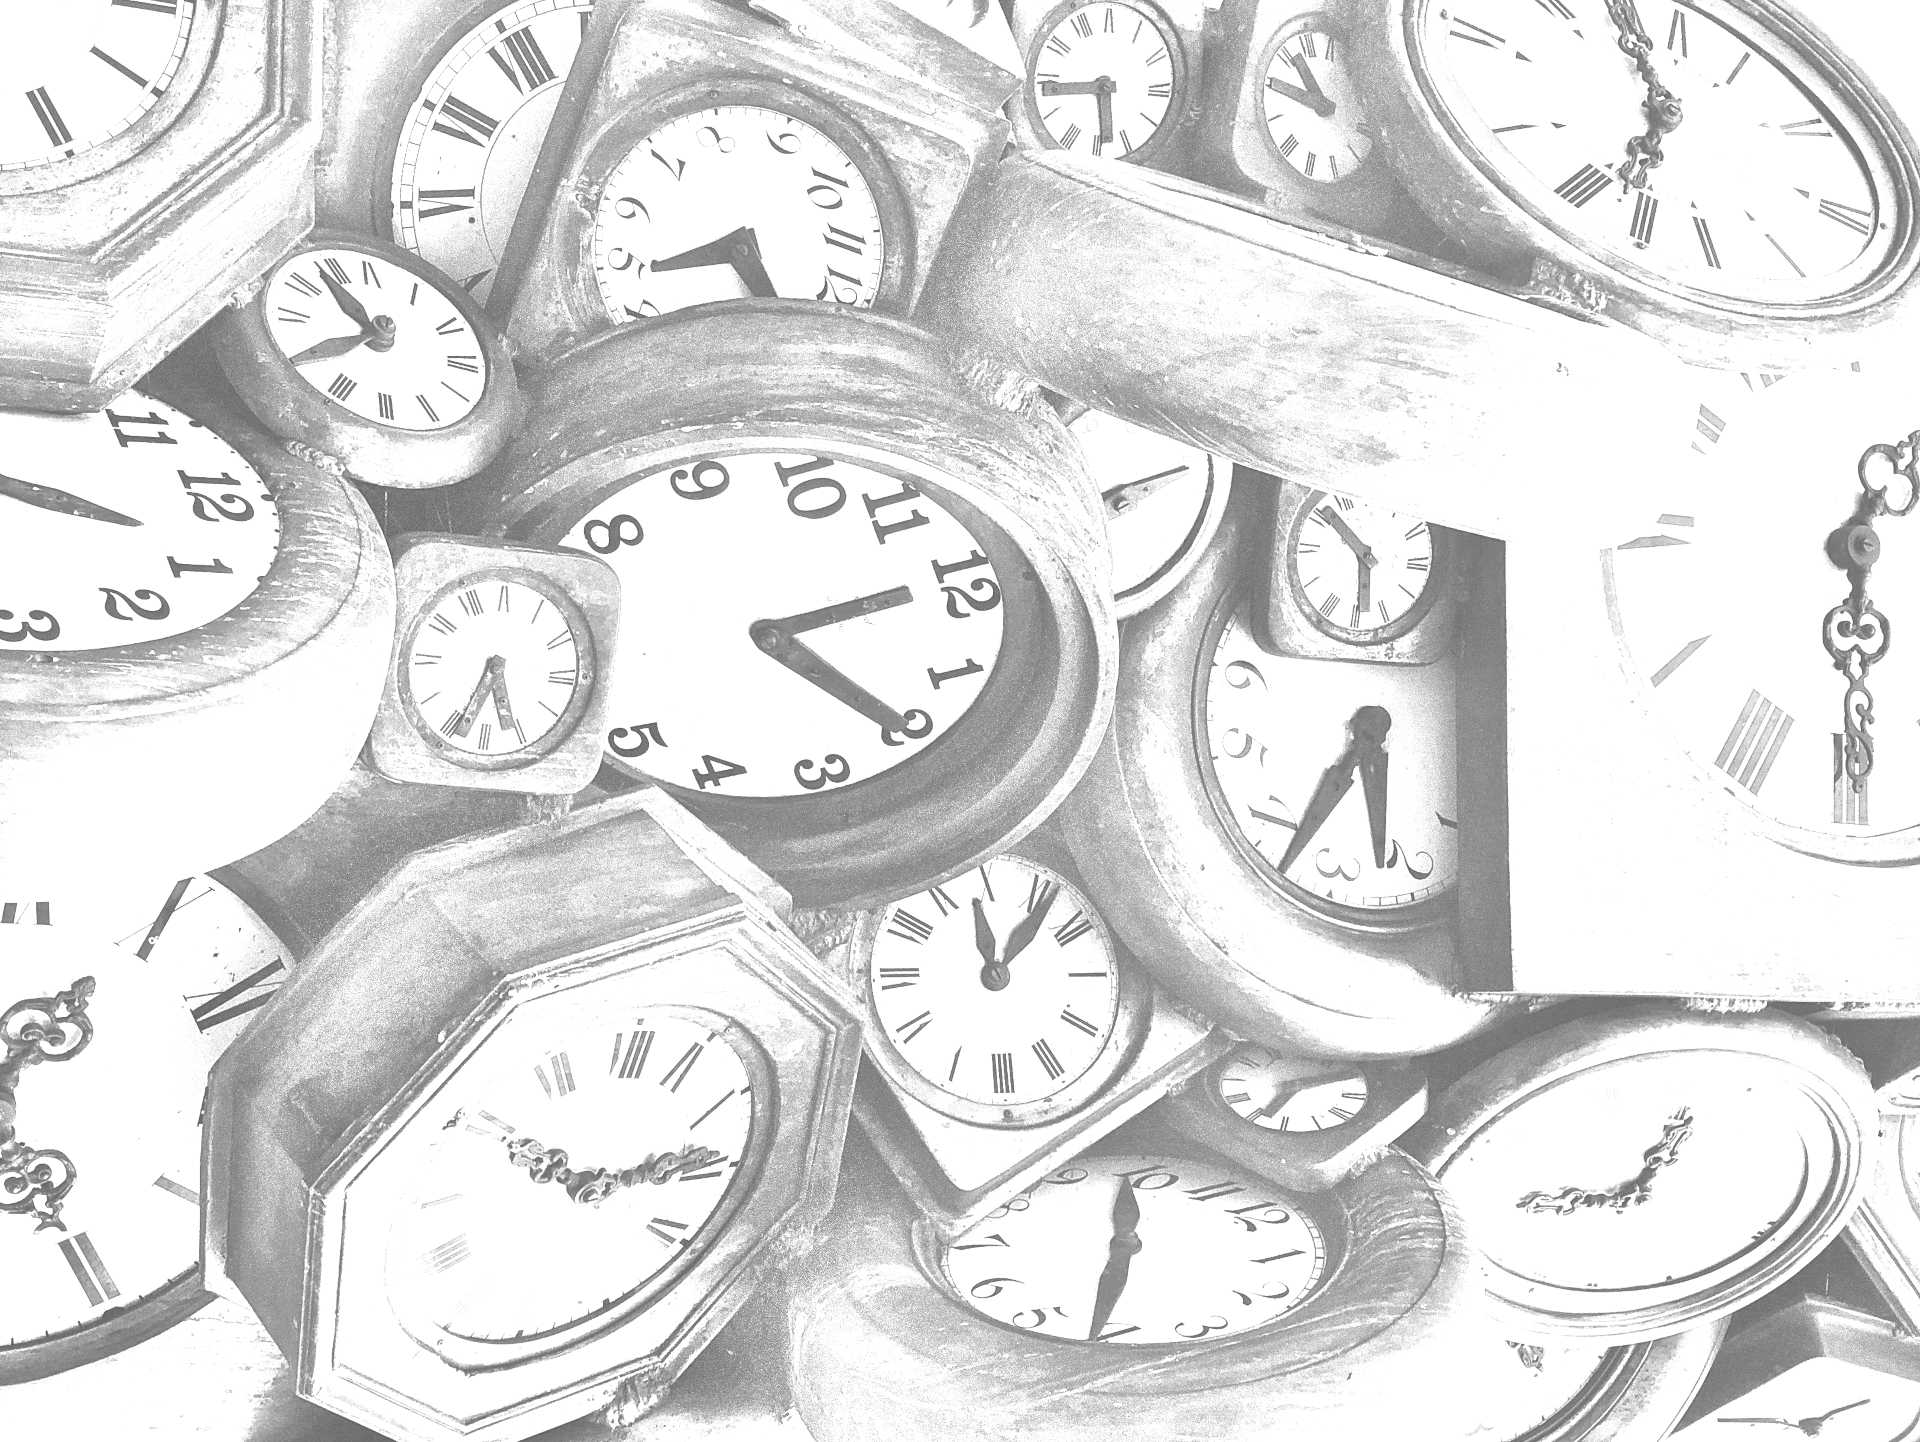
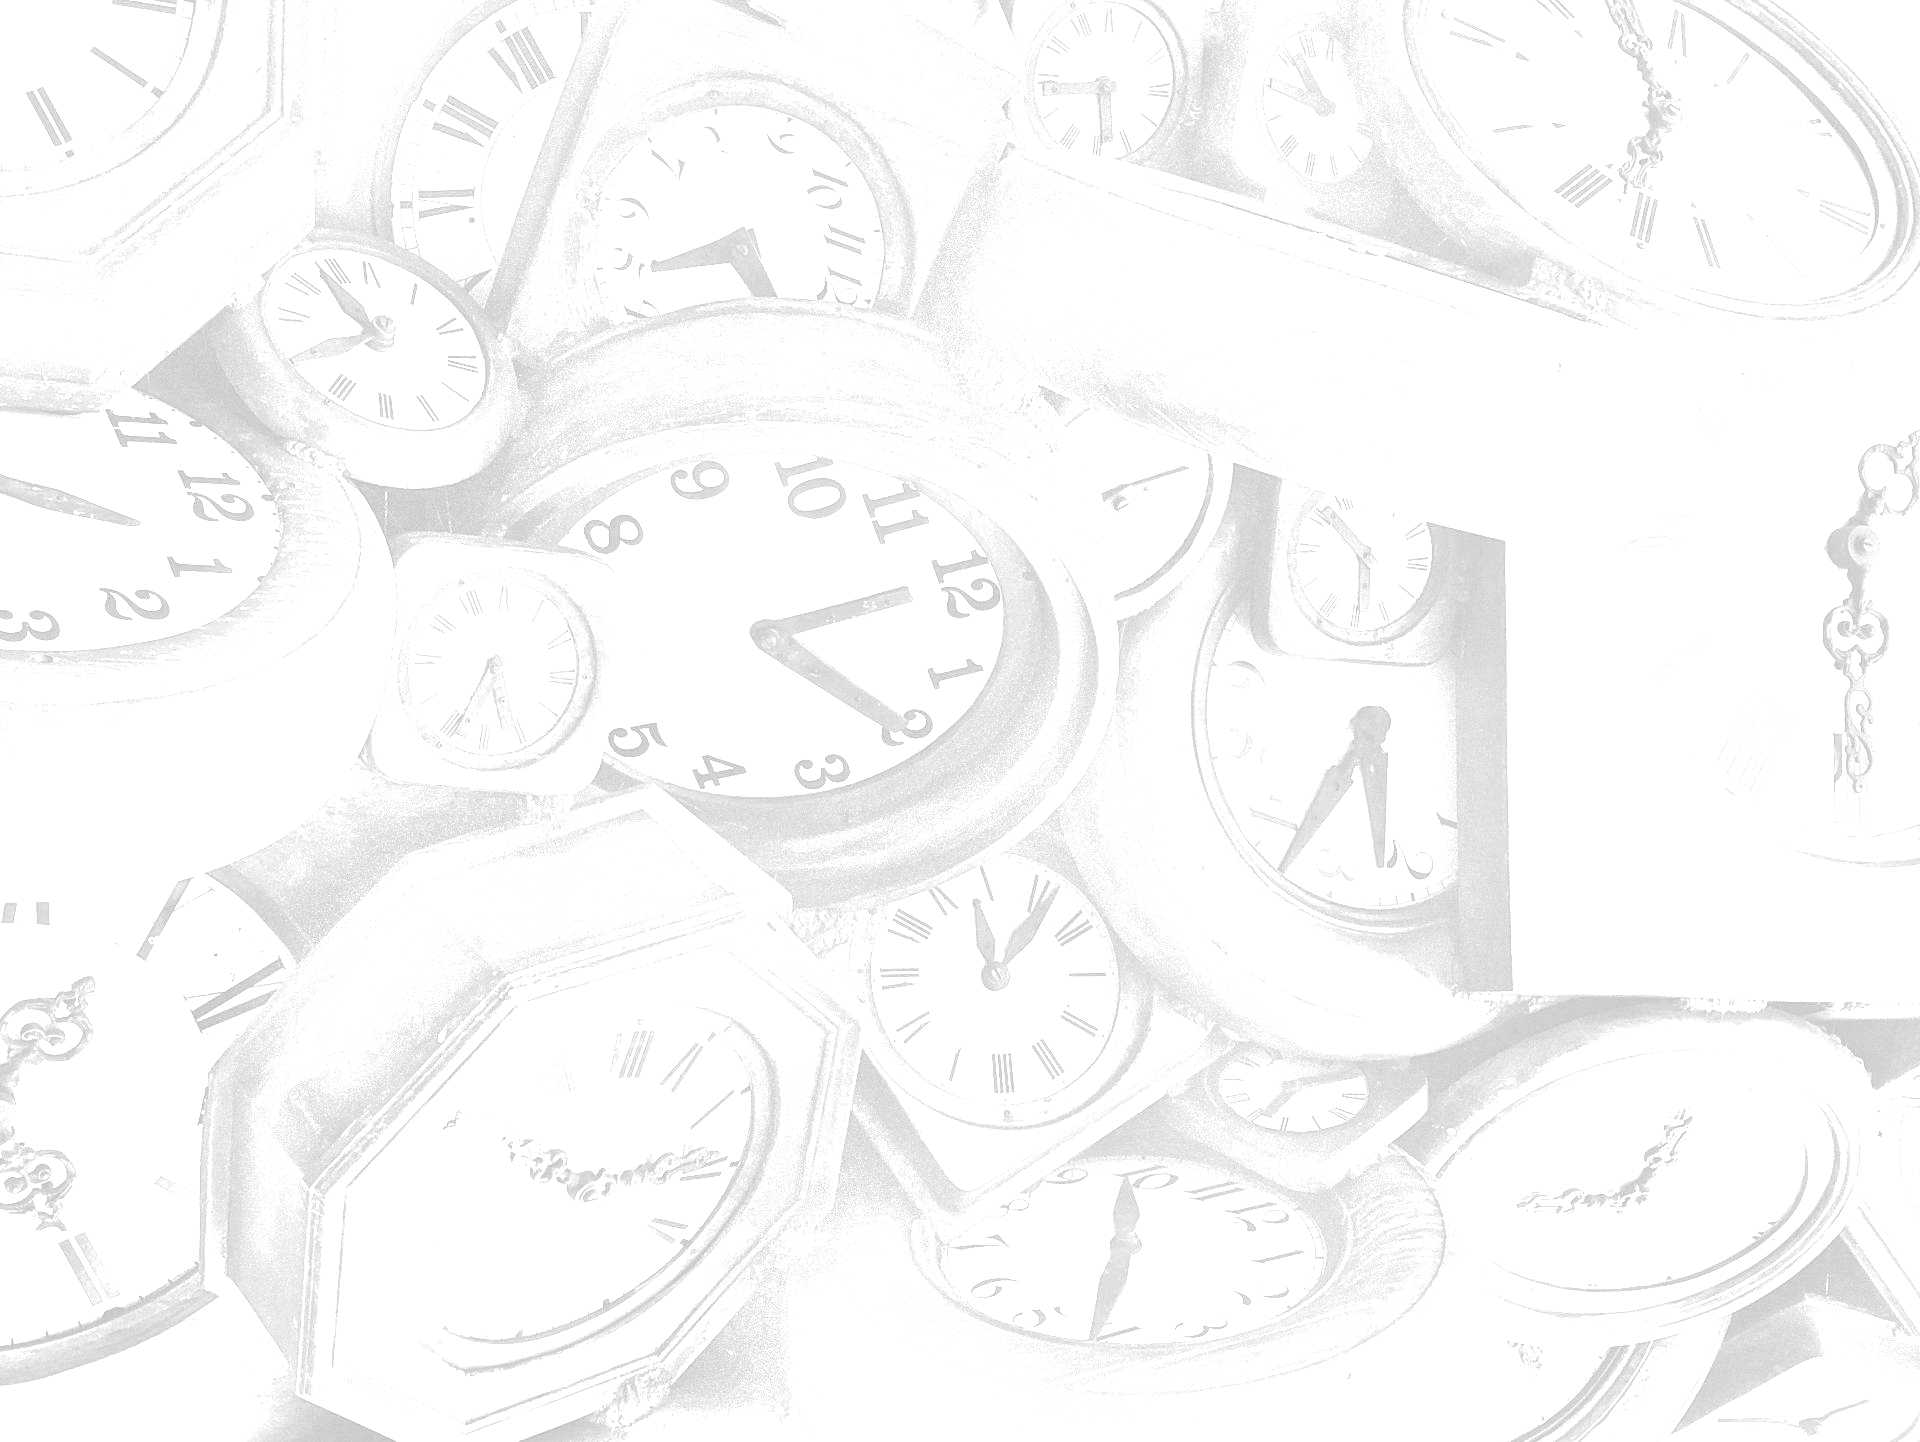
fix-sidebar style

diff --git a/app/assets/stylesheets/application.scss b/app/assets/stylesheets/application.scss
@@ -20,5 +20,5 @@ html {
 body {
   background-image: url("printime-bg.jpg");
   background-size: cover;
-  background-blend-mode: overlay;
+  background-blend-mode: normal;
 }
